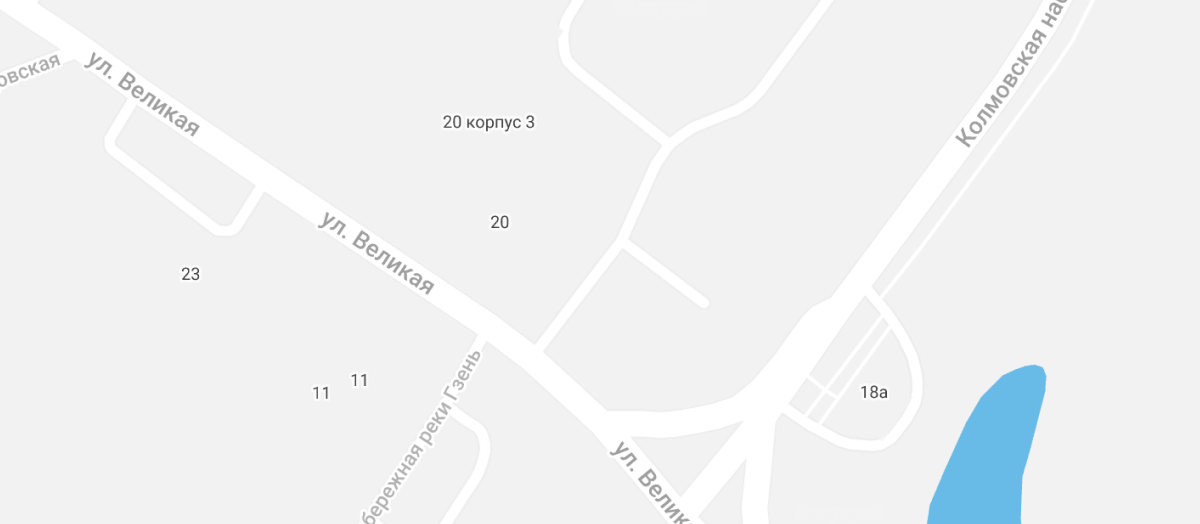
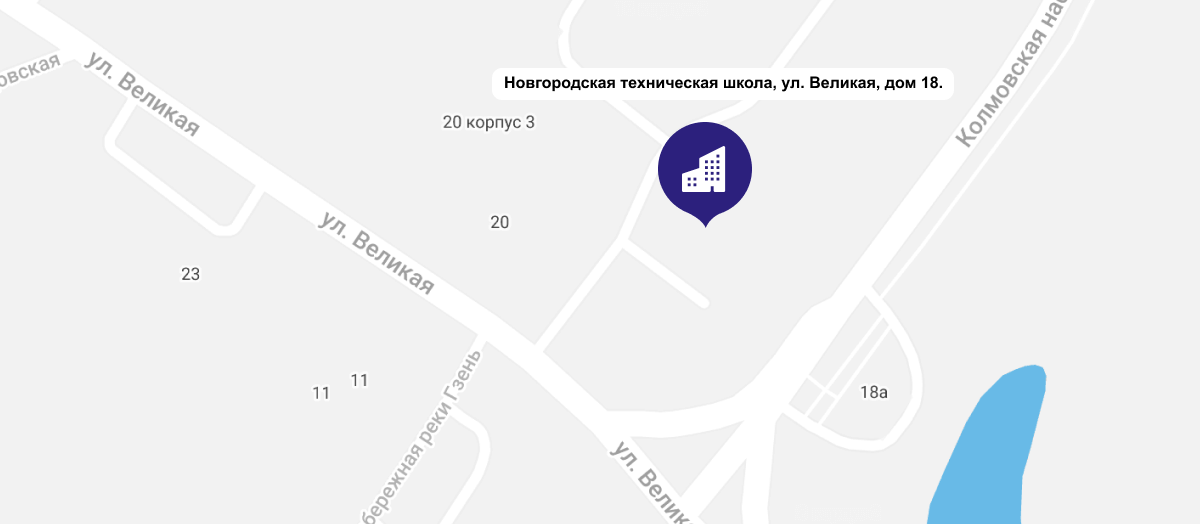
rollback old text in velikiy-novgorod-pamyatka

Changed region(s): [[0.5242, 0.2137, 0.6475, 0.4275], [0.4008, 0.1527, 0.8017, 0.1832]]

diff --git a/velikiy-novgorod-pamyatka/Великий-Новгород-памятка.html b/velikiy-novgorod-pamyatka/Великий-Новгород-памятка.html
@@ -136,9 +136,7 @@
               </tr>
               <tr>
                 <td align="left" class="css-text" style="font-size:0px;padding:0 35px;padding-bottom:40px;word-break:break-word;">
-                  <div style="font-family:Arial, Helvetica, sans-serif;font-size:18px;line-height:21px;text-align:left;color:#000000;"> Startup Tour 2023 состоится <b>28 апреля.</b><br/>
-                    <b>Важно!</b> Время начала начала конференции изменилось.<br/>
-                    Официальное открытие начнется в <b>11:00</b> по адресу: <br/>
+                  <div style="font-family:Arial, Helvetica, sans-serif;font-size:18px;line-height:21px;text-align:left;color:#000000;">Startup Tour 2023 состоится <b>28 апреля.</b><br /> Официальное открытие начнется в <b>11:00</b> по адресу: <br />
                     <b>г. Великий Новгород, Новгородская техническая школа, ул. Великая, дом 18.</b>
                   </div>
                 </td>
@@ -149,7 +147,7 @@
                     <tbody>
                     <tr>
                       <td style="width:600px;">
-                        <img alt="Карта расположения места" height="auto" src="https://i.ibb.co/S0b8Pgh/card.png" style="border:0;display:block;outline:none;text-decoration:none;height:auto;width:100%;font-size:13px;" width="600" />
+                        <img alt="Карта расположения места" height="auto" src="https://i.ibb.co/99VM8cN/card.png" style="border:0;display:block;outline:none;text-decoration:none;height:auto;width:100%;font-size:13px;" width="600" />
                       </td>
                     </tr>
                     </tbody>
